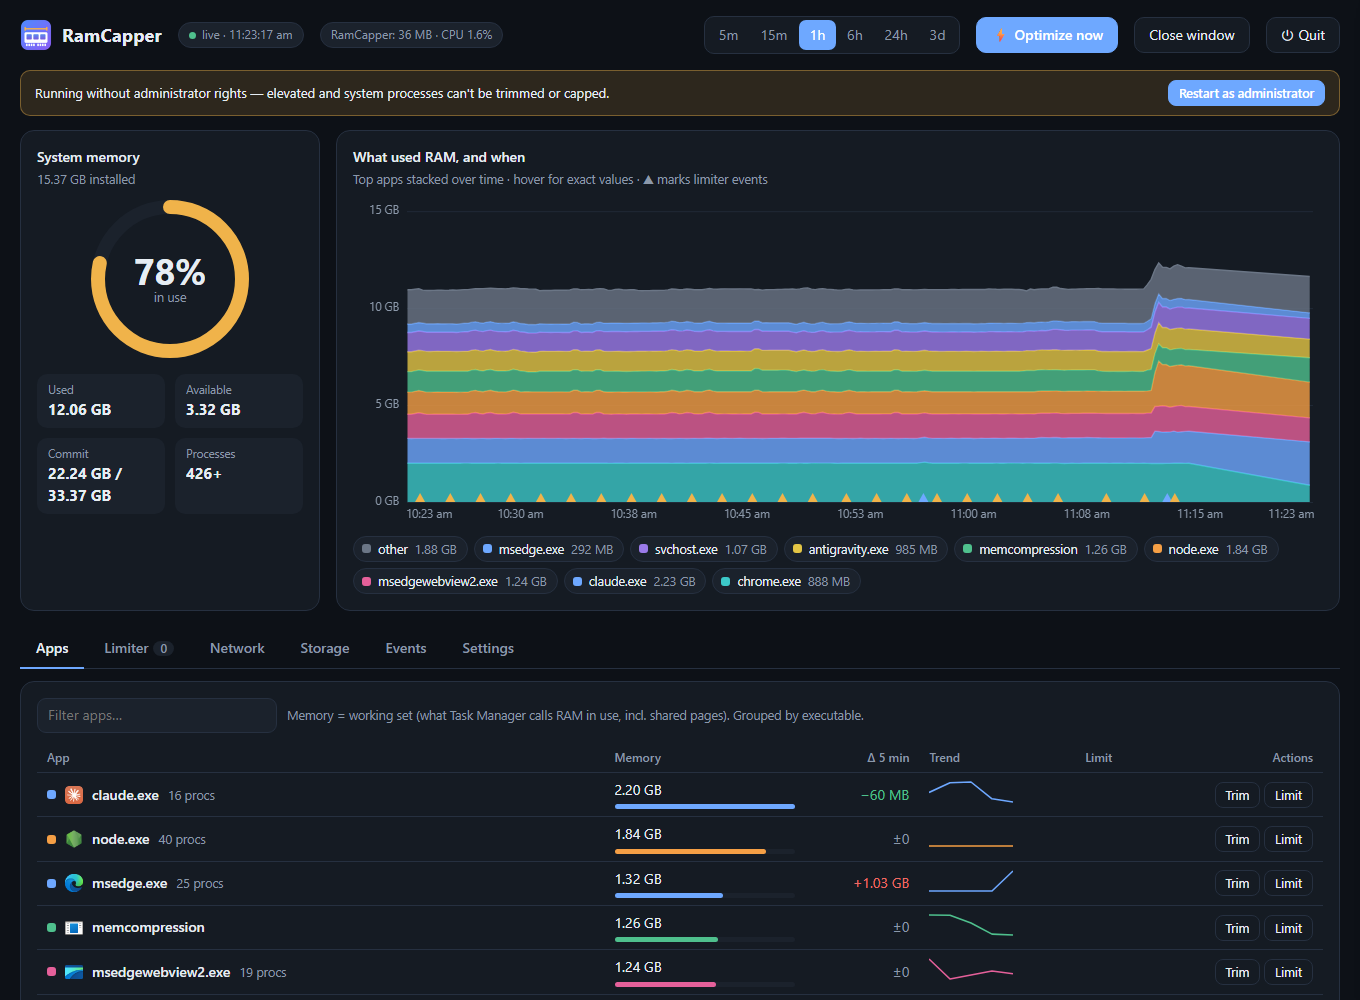
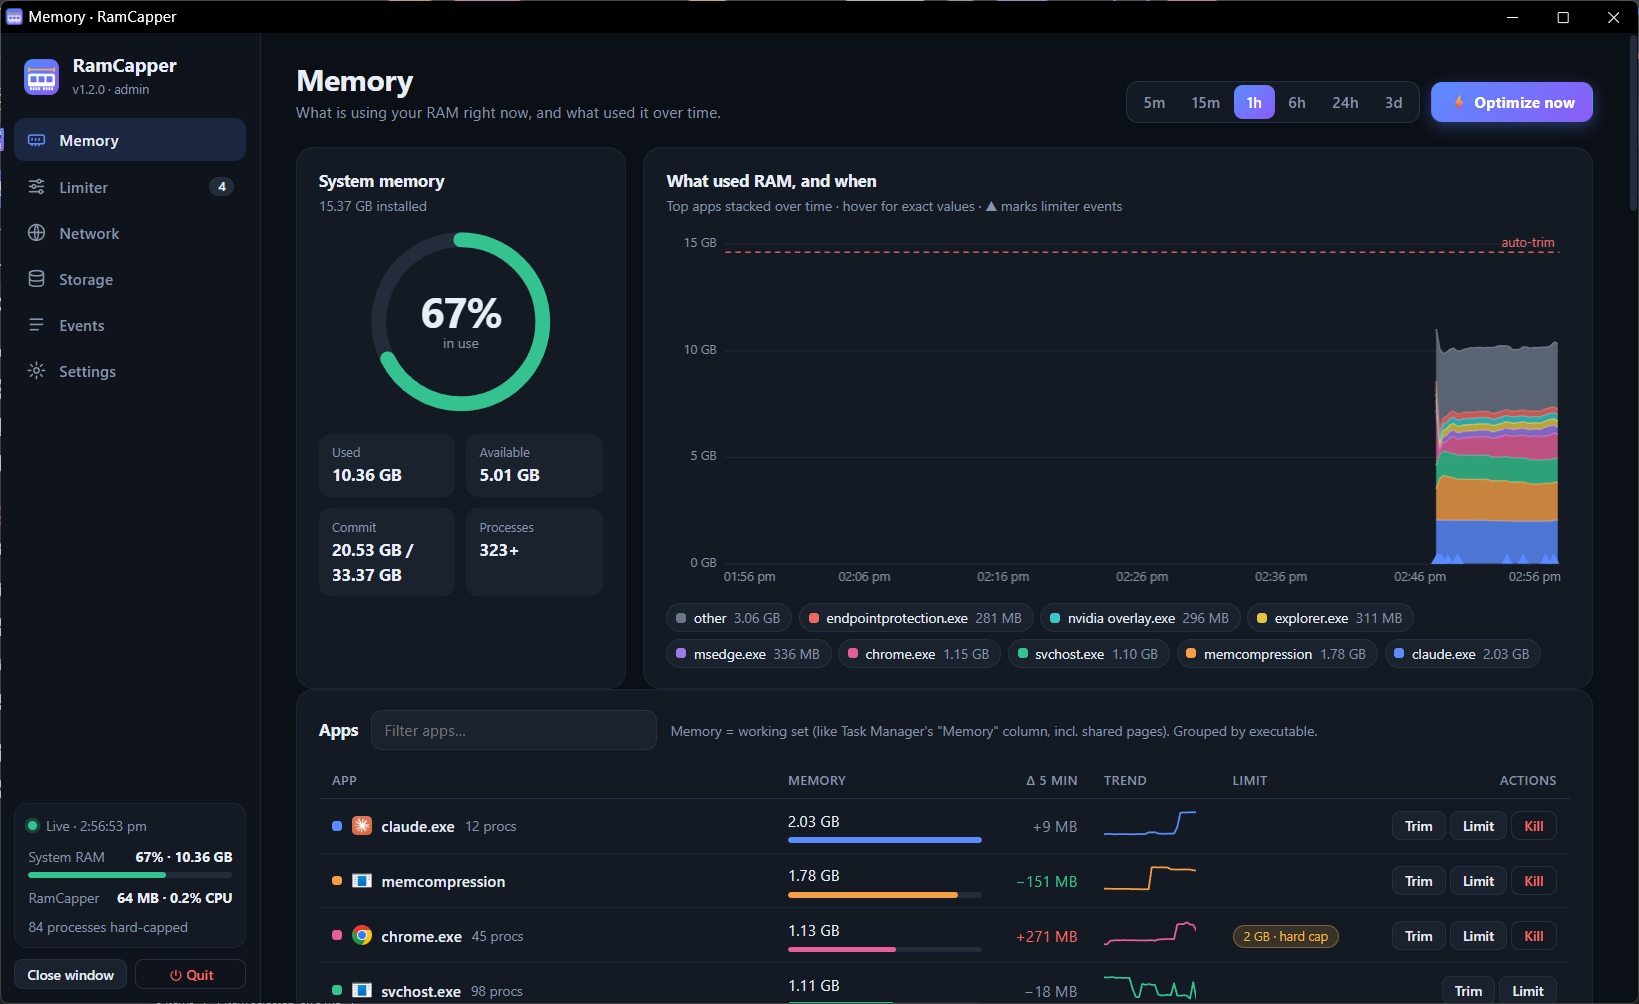
Fix duplicate window from tray, add Start menu/desktop shortcuts, new screenshot
Tray double-click no longer opens extra windows (single click only, and launches are
de-duplicated). Settings can add/remove Start menu and desktop shortcuts. Version 1.4.0.

diff --git a/web/settings.html b/web/settings.html
@@ -32,6 +32,16 @@
     </div>
   </div>
   <section class="card">
+    <h3>Shortcuts &amp; pinning</h3>
+    <div class="sub">Open RamCapper from the Start menu or desktop, or pin it to the taskbar.</div>
+    <table style="margin-top:8px"><tbody>
+      <tr><td><b>Start menu</b><div class="sub">Adds RamCapper to your apps list, so it shows up when you search Start.</div></td><td class="r"><span id="sc-start-st" class="sub"></span> <button class="btn sm primary" id="sc-start">Add</button> <button class="btn sm hide" id="sc-start-show">Show</button></td></tr>
+      <tr><td><b>Desktop</b><div class="sub">A RamCapper icon on your desktop.</div></td><td class="r"><span id="sc-desktop-st" class="sub"></span> <button class="btn sm primary" id="sc-desktop">Add</button></td></tr>
+      <tr><td><b>Taskbar</b><div class="sub">Windows doesn't allow apps to pin themselves. Add the Start menu shortcut, then press Start, type <b>RamCapper</b>, right-click it and choose <b>Pin to taskbar</b>.</div></td><td class="r"><span class="sub">manual</span></td></tr>
+    </tbody></table>
+    <div class="sub" id="sc-note" style="margin-top:8px"></div>
+  </section>
+  <section class="card">
     <h3>About</h3>
     <div class="kv" id="about"></div>
     <div class="sub" style="margin-top:12px">Only one copy of RamCapper runs at a time. Starting it again just brings the existing window to the front. A newer version replaces an older one that is still running.</div>
@@ -49,6 +59,18 @@ window.onInfo=i=>{
     .map(([k,v])=>`<span>${k}</span><span style="word-break:break-all">${esc(v)}</span>`).join('');
 };
 $('#i-elev').onclick=elevate;
+let SC={start:false,desktop:false};
+function showSC(st){
+  SC=st;
+  ['start','desktop'].forEach(w=>{$('#sc-'+w).textContent=st[w]?'Remove':'Add';$('#sc-'+w).classList.toggle('primary',!st[w]);$('#sc-'+w+'-st').textContent=st[w]?'Added':''});
+  $('#sc-start-show').classList.toggle('hide',!st.start);
+  $('#sc-note').textContent=st.frozen?'The shortcuts point to this exe. If you move RamCapper.exe, remove and add them again.':'Running from source: the shortcuts start ramcapper.py with pythonw.';
+}
+async function scSet(where,on){try{showSC(await api('/api/shortcut',{where,enabled:on}));toast(on?'Shortcut added':'Shortcut removed')}catch(e){toast(e.message)}}
+$('#sc-start').onclick=()=>scSet('start',!SC.start);
+$('#sc-desktop').onclick=()=>scSet('desktop',!SC.desktop);
+$('#sc-start-show').onclick=()=>api('/api/shortcut',{where:'start',reveal:true});
+api('/api/shortcuts').then(showSC).catch(()=>{});
 async function relocate(body,ask){
   if(!confirm(ask))return;
   try{const r=await api('/api/relocate',body);waitForRestart('Moved to '+r.dest+'<br><span style="font-size:13px">'+(r.note.join(', ')||'data copied')+' — restarting…</span>')}catch(e){toast(e.message)}

diff --git a/ramcapper.py b/ramcapper.py
@@ -26,7 +26,7 @@ from urllib.parse import parse_qs, urlparse
 
 import psutil
 
-VERSION = "1.3.0"
+VERSION = "1.4.0"
 FROZEN = getattr(sys, "frozen", False)
 HERE = getattr(sys, "_MEIPASS", None) or os.path.dirname(os.path.abspath(__file__))   # bundled resources
 APP_DIR = os.path.dirname(sys.executable) if FROZEN else os.path.dirname(os.path.abspath(__file__))
@@ -1655,6 +1655,8 @@ class Handler(BaseHTTPRequestHandler):
                     size = 0
                 return self._send(200, {"admin": ADMIN, "data_dir": DATA_DIR, "data_source": DATA_SOURCE, "app_dir": APP_DIR,
                                         "db_size": size, "frozen": FROZEN, "port": PORT, "version": VERSION})
+            if u.path == "/api/shortcuts":
+                return self._send(200, shortcut_state())
             if u.path == "/api/net":
                 if not module_on("network"):
                     return self._send(409, {"error": "network module is off"})
@@ -1719,6 +1721,20 @@ class Handler(BaseHTTPRequestHandler):
                     Net.force_ident = True      # a manual scan re-identifies every device
                     threading.Thread(target=net_scan, daemon=True).start()
                 return self._send(200, {})
+            if path == "/api/shortcut":
+                where = body.get("where")
+                if where not in ("start", "desktop"):
+                    return self._send(400, {"error": "bad target"})
+                if body.get("reveal"):
+                    lnk = shortcut_path(where)
+                    if os.path.exists(lnk):
+                        subprocess.Popen(["explorer", f"/select,{lnk}"])
+                    return self._send(200, shortcut_state())
+                try:
+                    set_shortcut(where, bool(body.get("enabled")))
+                except Exception as e:
+                    return self._send(400, {"error": f"Could not change the shortcut: {e}"})
+                return self._send(200, shortcut_state())
             if path == "/api/show":          # a second launch / the tray asks for the window
                 show_window()
                 return self._send(200, {})
@@ -1841,6 +1857,43 @@ class Handler(BaseHTTPRequestHandler):
         self._send(404, {"error": "not found"})
 
 
+def shortcut_path(where):
+    if where == "start":
+        base = os.path.join(os.environ.get("APPDATA", ""), "Microsoft", "Windows", "Start Menu", "Programs")
+    else:
+        base = os.path.join(os.environ.get("USERPROFILE", ""), "Desktop")
+        if not os.path.isdir(base):
+            base = os.path.join(os.environ.get("USERPROFILE", ""), "OneDrive", "Desktop")
+    return os.path.join(base, "RamCapper.lnk")
+
+
+def shortcut_state():
+    return {"start": os.path.exists(shortcut_path("start")), "desktop": os.path.exists(shortcut_path("desktop")),
+            "frozen": FROZEN, "start_dir": os.path.dirname(shortcut_path("start"))}
+
+
+def set_shortcut(where, on):
+    path = shortcut_path(where)
+    if not on:
+        try:
+            os.remove(path)
+        except FileNotFoundError:
+            pass
+        return
+    if FROZEN:
+        target, args, icon = sys.executable, "", sys.executable
+    else:
+        pyw = os.path.join(os.path.dirname(sys.executable), "pythonw.exe")
+        target = pyw if os.path.exists(pyw) else sys.executable
+        args = '"' + os.path.abspath(__file__) + '"'
+        icon = os.path.join(HERE, "assets", "ramcapper.ico")
+    script = ("$s=(New-Object -ComObject WScript.Shell).CreateShortcut(%s);$s.TargetPath=%s;$s.Arguments=%s;$s.WorkingDirectory=%s;"
+              "$s.IconLocation=%s;$s.Description='RamCapper - RAM monitor and limiter';$s.Save()"
+              % (_psq(path), _psq(target), _psq(args), _psq(APP_DIR), _psq(icon)))
+    os.makedirs(os.path.dirname(path), exist_ok=True)
+    _ps(script)
+
+
 def open_window():
     url = f"http://127.0.0.1:{PORT}/"
     for exe in (shutil.which("msedge"),
@@ -1912,11 +1965,19 @@ def focus_ui_window():
     return True
 
 
+SHOW_LOCK = threading.Lock()
+LAST_OPEN = [0.0]
+
+
 def show_window():
     """Open the dashboard, or focus it if it is already open (never a second window)."""
-    if time.time() - UI_SEEN[0] < 6 and focus_ui_window():
-        return
-    open_window()
+    with SHOW_LOCK:
+        if focus_ui_window():
+            return
+        if time.time() - LAST_OPEN[0] < 8:         # a window was launched a moment ago and is still loading
+            return
+        LAST_OPEN[0] = time.time()
+        open_window()
 
 
 def ask_running_to_show():
@@ -2099,8 +2160,8 @@ def _tray_thread(first_balloon):
     def wndproc(hwnd, msg, wparam, lparam):
         if msg == WM_TRAY:
             ev = lparam & 0xFFFF
-            if ev in (0x0202, 0x0203):                       # left click / double click -> open the dashboard
-                show_window()
+            if ev == 0x0202:                                 # left click -> open (or focus) the dashboard
+                threading.Thread(target=show_window, daemon=True).start()
             elif ev in (0x0205, 0x007B):                     # right click -> menu
                 pt = wintypes.POINT()
                 user32.GetCursorPos(ctypes.byref(pt))

diff --git a/README.md b/README.md
@@ -29,6 +29,7 @@
 - **Tray icon** – RamCapper keeps running when you close its window; the notification-area icon opens the dashboard (click) or quits (right-click). Start with `--no-tray` to disable it.
 - **Storage tab** *(opt-in)* – scan a drive or folder to see what takes the most space: drill-down folders, largest files, breakdown by file type. Read-only.
 - **One page per tab** – a sidebar layout with separate pages for Memory, Limiter, Network, Storage, Events and Settings.
+- **Shortcuts** – add RamCapper to the Start menu or desktop from Settings, then pin it to the taskbar from there (Windows does not let apps pin themselves).
 - **Single instance** – starting RamCapper again (or clicking the tray icon) just focuses the open window; a newer version automatically replaces an older one that is still running. (Task Manager shows two `RamCapper.exe` entries for the one-file build – that is PyInstaller's launcher plus the app, not two copies.)
 - **Portable** – single `.exe`, no installer. History and settings live in a folder you choose.
 - **Safe by design** – clipboard owners are never trimmed, critical Windows processes can't be ended, and the web UI only listens on `127.0.0.1`.
